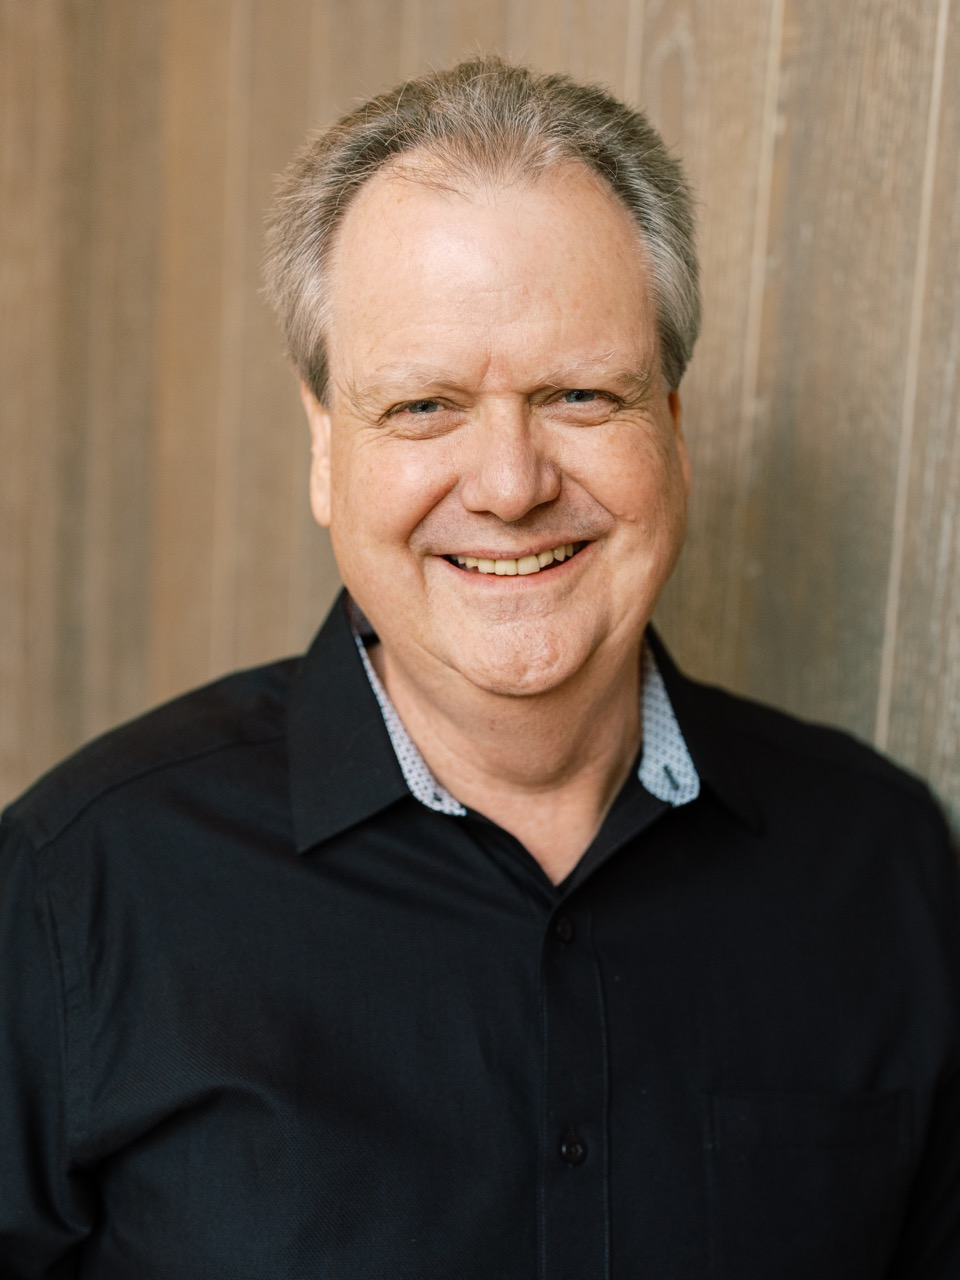
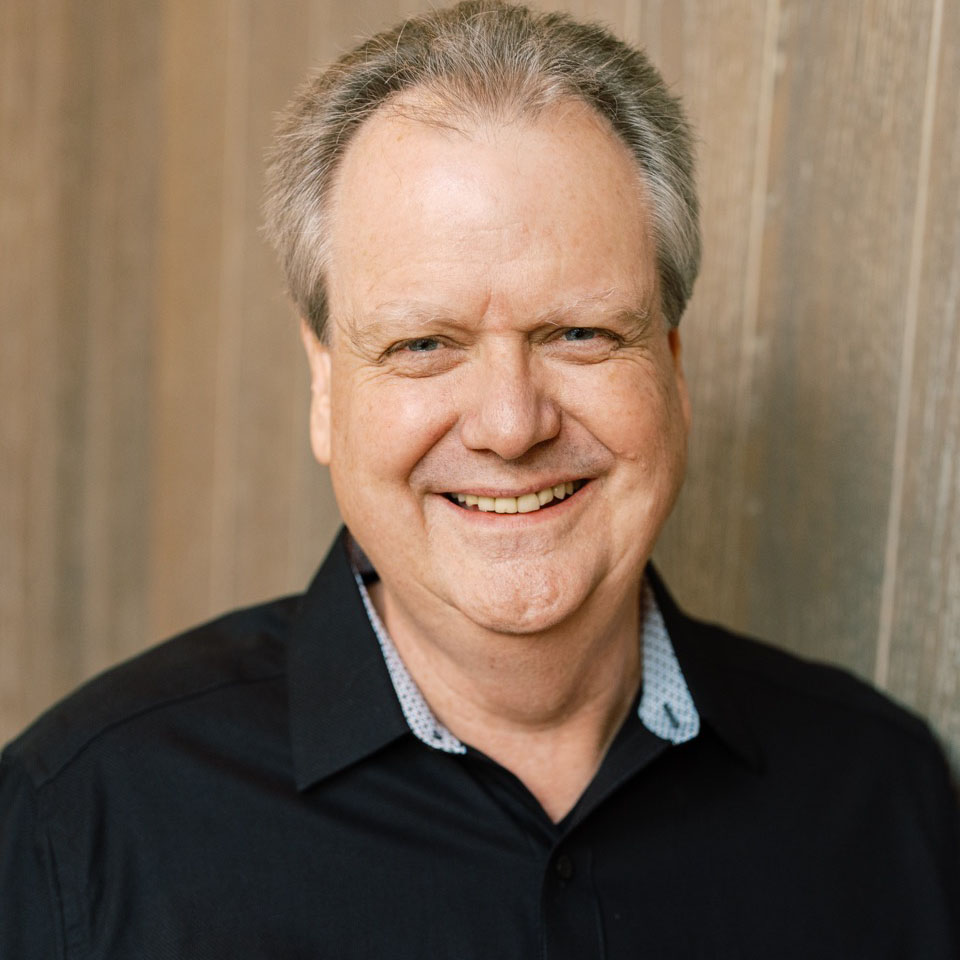
Make speaker images square and uniform - Updated aspect ratio from 4:3 to square for consistent speaker card appearance

diff --git a/keynote-ts/src/components/Speakers.tsx b/keynote-ts/src/components/Speakers.tsx
@@ -89,7 +89,7 @@ export function Speakers() {
           {speakers.people.map((person) => (
             <div key={person.name} className="w-full md:w-1/2 lg:w-1/4 flex justify-center">
               <div className="bg-bone rounded-3xl shadow-lg flex flex-col items-center p-10 h-full w-full">
-                <div className="w-full aspect-[4/3] relative mb-8">
+                <div className="w-full aspect-square relative mb-8">
                   <img
                     src={person.image}
                     alt={person.name}

diff --git a/changes.md b/changes.md
@@ -244,5 +244,14 @@
 - **Created speakers directory structure** at `public/images/speakers/`
 - Updated to match the actual uploaded file names: `Dionne.jpeg`, `Graham.jpeg`, `Ray.jpeg`
 - Updated paths to include proper `/images/speakers/` directory structure
+- Moved actual image files from `src/images/Speakers/` to `public/images/speakers/` for proper serving
+- Fixed case mismatch in `DIonne.jpeg` to `Dionne.jpeg`
+
+## [Date: 2024-06-12] Made Speaker Images Square and Uniform
+
+- **Updated speaker image aspect ratio** in `Speakers.tsx` from `aspect-[4/3]` to `aspect-square`
+- All speaker images now display as perfect squares with consistent sizing
+- Maintains `object-cover` to ensure proper cropping and no distortion
+- Creates a more uniform and professional appearance for the speaker grid
 
 ---
